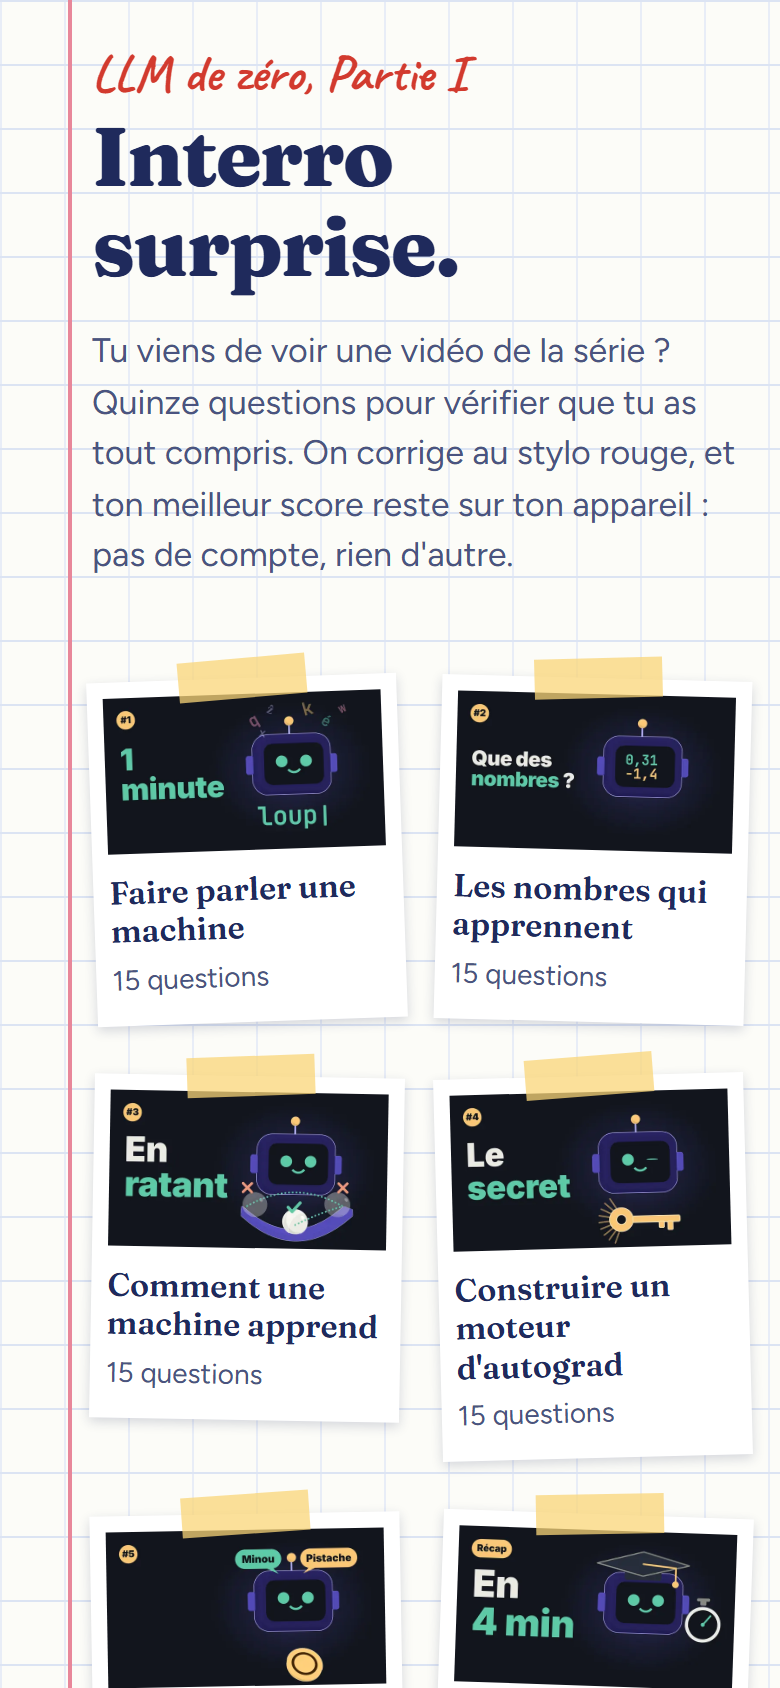
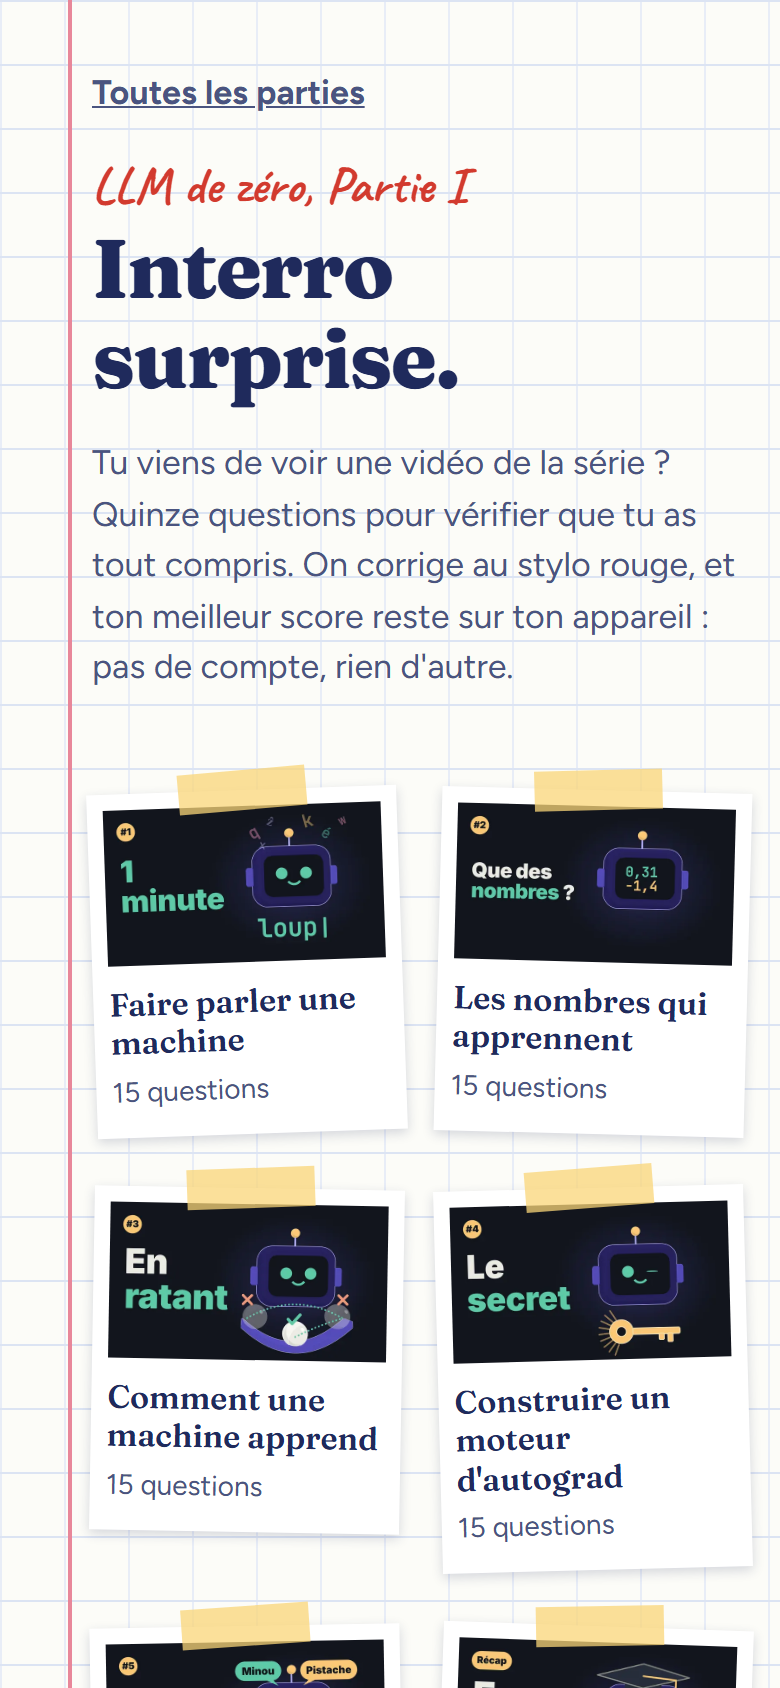
Organisation par parties : / (série), /part1, /part1/quiz/<n>

diff --git a/src/lib/data.ts b/src/lib/data.ts
@@ -3,16 +3,25 @@ import config from "../../site.config.json";
 
 export type Question = { q: string; answers: string[]; correct: number; explanation: string };
 export type Quiz = { slug: string; number: string; title: string; image: string; questions: Question[] };
+export type Part = { id: string; title: string; quizzes: Quiz[] };
 
-export const allQuizzes: Quiz[] = data.parts.flatMap((p) => p.quizzes);
+export const parts: Part[] = data.parts;
 
-export type Links = { video: string; notebook: string; book: string };
-export function linksFor(slug: string): Links {
-  const q = (config.quizzes as Record<string, { video: string; notebook: string }>)[slug] ?? { video: "", notebook: "" };
+/** Adresse d'une partie et d'un quiz : /part1, /part1/quiz/recap */
+export const partPath = (part: Part | string) => `/part${typeof part === "string" ? part : part.id}`;
+export const quizPath = (part: Part | string, quiz: Quiz) => `${partPath(part)}/quiz/${quiz.slug}`;
+/** Clé unique d'un quiz (stockage local, images de partage) : "1/recap" */
+export const quizKey = (part: Part | string, quiz: Quiz) => `${typeof part === "string" ? part : part.id}/${quiz.slug}`;
+export const ogImage = (part: Part, quiz: Quiz) => `/og/part${part.id}-${quiz.slug}.jpg`;
+
+type QuizLinks = { video: string; notebook: string };
+export type Links = QuizLinks & { book: string };
+export function linksFor(part: Part, quiz: Quiz): Links {
+  const p = (config.parts as Record<string, Record<string, QuizLinks>>)[part.id] ?? {};
+  const q = p[quiz.slug] ?? { video: "", notebook: "" };
   return { video: q.video.trim(), notebook: q.notebook.trim(), book: config.book.trim() };
 }
 
-export function nextQuiz(slug: string): Quiz | undefined {
-  const i = allQuizzes.findIndex((q) => q.slug === slug);
-  return allQuizzes[i + 1];
+export function nextQuiz(part: Part, quiz: Quiz): Quiz | undefined {
+  return part.quizzes[part.quizzes.findIndex((q) => q.slug === quiz.slug) + 1];
 }

diff --git a/docs/plan.md b/docs/plan.md
@@ -11,7 +11,7 @@
 **Spec :** `docs/design.md`
 
 ## Contraintes globales
-- Adresses : `/`, `/quiz/1` … `/quiz/5`, `/quiz/recap` ; `trailingSlash: "never"`.
+- Adresses : `/`, `/part1/quiz/1` … `/part1/quiz/5`, `/part1/quiz/recap` (page de la série `/`, page de la partie `/part1`) ; `trailingSlash: "never"`.
 - 15 questions par quiz, 4 réponses, score sur 15.
 - Texte des questions, réponses et explications : identique au PDF, caractère pour caractère (après normalisation des espaces et des retours à la ligne).
 - Couleurs : papier #FCFCF8, encre #1F2A5C, stylo rouge #D23A2E, fluo #9BE8C6, vert ✓ #1E8A5E, marge #E8879A.

diff --git a/docs/design.md b/docs/design.md
@@ -5,7 +5,7 @@ Les spectateurs arrivent depuis la description YouTube, presque toujours sur té
 
 ## Objectifs
 - 6 quiz (vidéos 1 à 5 et récap), **15 questions chacun, toutes à la suite**, score sur 15 (choix de l'auteur).
-- Adresses stables : `/quiz/1` … `/quiz/5`, `/quiz/recap`.
+- Adresses stables : `/part1/quiz/1` … `/part1/quiz/5`, `/part1/quiz/recap` (page de la série `/`, page de la partie `/part1`).
 - Lighthouse mobile ≥ 95 en performance, accessibilité et bonnes pratiques.
 - Ajout facile des quiz de la Partie II : on ajoute une entrée dans `data/quiz.json` et une miniature.
 
